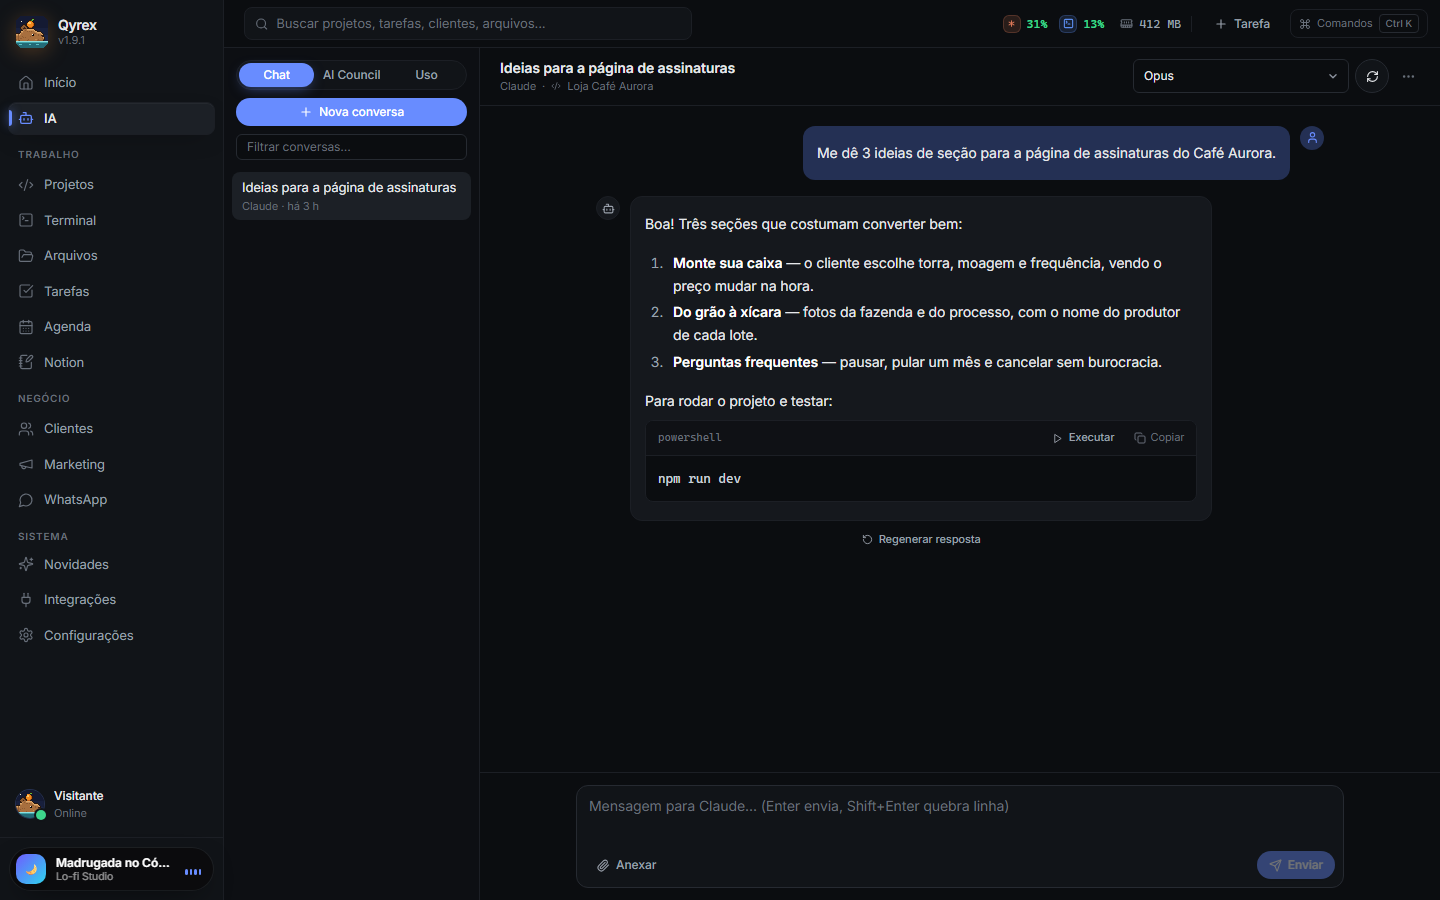
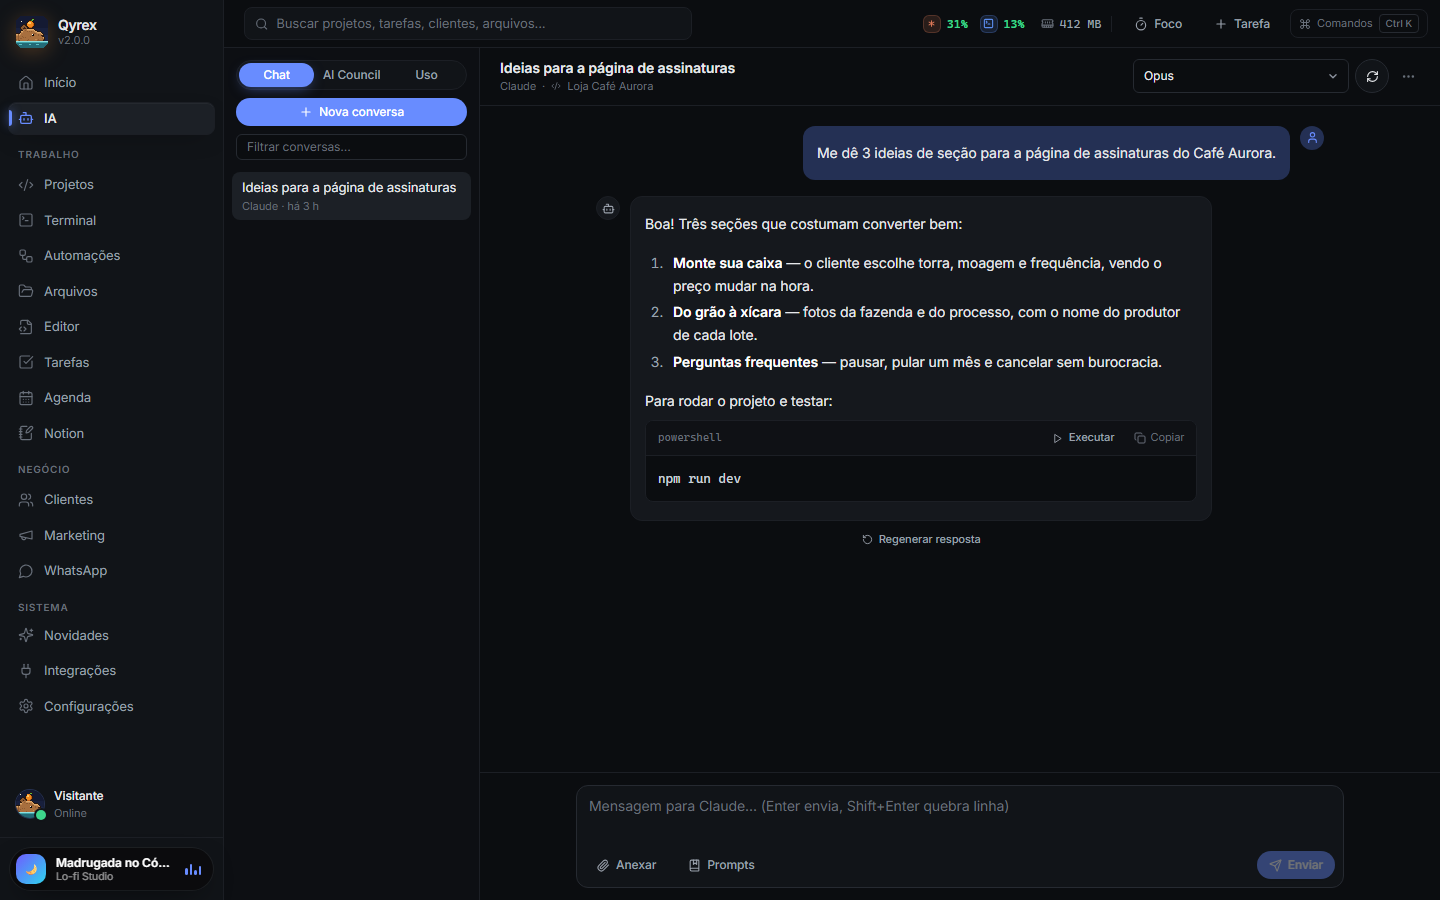
telas do README e do site atualizadas para a 2.0
npm run build:demo && npm run screenshots com as telas novas (Automações e Git visual); a demo ganhou automações de exemplo com execução simulada. README com as funções e regras de segurança do 2.0, imagem do site refeita e notas da 2.0.0 completas.

diff --git a/src/demo/workspaceMock.ts b/src/demo/workspaceMock.ts
@@ -15,6 +15,8 @@ import type {
   AIUsageRecord,
   AIUsageSummary,
   AppSettings,
+  Automation,
+  AutomationRun,
   BackupInfo,
   CalendarEvent,
   FocusSession,
@@ -448,6 +450,57 @@ const projectByPath = (path: string) => db.projects.find((p) => path.toLowerCase
 const risk = (cmd: string): CommandRisk => (/\b(rm|del|remove-item|format|rd|rmdir)\b|--force|reset --hard/i.test(cmd) ? "dangerous" : /^(git status|dir|ls|echo|npm run dev|node -v|npm -v)\b/i.test(cmd.trim()) ? "safe" : "normal");
 const DEMO_ONLY = "Na demo web isso não abre nada no seu computador — no app desktop abre de verdade.";
 
+// Automações da demo: exemplos fictícios; "executar" só simula o resultado.
+const safe = { risk: "safe" as const, reasons: [] };
+const demoAutomations: Omit<Automation, "lastRun">[] = [
+  {
+    id: "au1", name: "Verificar o projeto", description: "Lint, tipos e build, parando no primeiro erro.", projectId: "p1", enabled: true, createdAt: ago(60 * 24 * 3), updatedAt: ago(60 * 24 * 3),
+    steps: [
+      { kind: "command", command: "npm run lint", assessment: safe },
+      { kind: "command", command: "npm run typecheck", assessment: { risk: "normal", reasons: [] } },
+      { kind: "command", command: "npm run build", assessment: safe },
+    ],
+  },
+  {
+    id: "au2", name: "Abrir ambiente de trabalho", description: "Abre o projeto no VS Code e um terminal na pasta.", projectId: "p2", enabled: true, createdAt: ago(60 * 24 * 5), updatedAt: ago(60 * 24 * 5),
+    steps: [
+      { kind: "open", target: "vscode", assessment: safe },
+      { kind: "open", target: "terminal", assessment: safe },
+    ],
+  },
+  {
+    id: "au3", name: "Checagem do Git", description: null, projectId: "p3", enabled: false, createdAt: ago(60 * 24 * 9), updatedAt: ago(60 * 24 * 9),
+    steps: [
+      { kind: "command", command: "git fetch --prune", assessment: safe },
+      { kind: "command", command: "git status -sb", assessment: safe },
+    ],
+  },
+];
+const DEMO_OUTPUT: Record<string, string> = {
+  "npm run lint": "> eslint . --max-warnings 0\n",
+  "npm run typecheck": "> tsc --noEmit\n",
+  "npm run build": "> next build\n✓ Compiled successfully\n✓ Generating static pages (12/12)\n",
+};
+const demoRun = (a: Omit<Automation, "lastRun">, minutesAgo: number): AutomationRun => ({
+  id: uid(),
+  automationId: a.id,
+  startedAt: ago(minutesAgo),
+  finishedAt: ago(minutesAgo),
+  status: "success",
+  error: null,
+  steps: a.steps.map((st) => ({
+    step: st.kind === "command" ? { kind: "command", command: st.command } : { kind: "open", target: st.target },
+    status: "success",
+    exitCode: st.kind === "command" ? 0 : null,
+    stdout: st.kind === "command" ? DEMO_OUTPUT[st.command] ?? "" : "",
+    stderr: "",
+    durationMs: st.kind === "command" ? 1800 + Math.round(Math.random() * 2400) : 300,
+    risk: st.assessment.risk,
+  })),
+});
+const demoRuns: AutomationRun[] = [demoRun(demoAutomations[0], 50), demoRun(demoAutomations[1], 60 * 20)];
+const withLastRun = (a: Omit<Automation, "lastRun">): Automation => ({ ...a, lastRun: demoRuns.find((r) => r.automationId === a.id) ?? null });
+
 // Prompts salvos da demo: só na memória da aba.
 const demoPrompts: SavedPrompt[] = [];
 
@@ -565,14 +618,34 @@ export const workspaceMock: WorkspaceApi = {
     used: () => ok(undefined),
   },
   automations: {
-    list: () => ok([], 20),
+    list: () => ok(demoAutomations.map(withLastRun), 20),
     create: () => fail(DEMO_ONLY),
-    update: () => fail(DEMO_ONLY),
-    delete: () => ok(undefined),
-    run: () => fail(DEMO_ONLY),
+    update: async (id, patch) => {
+      const a = demoAutomations.find((x) => x.id === id);
+      if (!a) return fail("Automação não encontrada.");
+      if (patch.enabled !== undefined) a.enabled = patch.enabled;
+      return ok(withLastRun(a));
+    },
+    delete: async (id) => {
+      const i = demoAutomations.findIndex((x) => x.id === id);
+      if (i >= 0) demoAutomations.splice(i, 1);
+      return ok(undefined);
+    },
+    run: async (id) => {
+      const a = demoAutomations.find((x) => x.id === id);
+      if (!a) return fail("Automação não encontrada.");
+      // Simulação: nada roda de verdade na demo web.
+      const run = demoRun(a, 0);
+      demoRuns.unshift(run);
+      return ok(run, 900);
+    },
     cancel: () => ok(false),
-    runs: () => ok([]),
-    recentRuns: () => ok([]),
+    runs: (id) => ok(demoRuns.filter((r) => r.automationId === id)),
+    recentRuns: () =>
+      ok(demoRuns.slice(0, 6).map((r) => {
+        const a = demoAutomations.find((x) => x.id === r.automationId)!;
+        return { ...r, automationName: a.name, projectId: a.projectId };
+      })),
     suggest: () => ok([{ name: "Rodar testes", description: null, steps: [{ kind: "command", command: "npm test" }] }]),
     onProgress: () => () => undefined,
   },

diff --git a/src/shared/changelog.ts b/src/shared/changelog.ts
@@ -34,6 +34,10 @@ export const CHANGELOG: ChangelogEntry[] = [
             en: "Local backup in Settings → Backup: a verified copy (integrity and hash) of the database, profile photo and icons, automatic every day and before any update changes the database. Restoring first saves a copy of the current state.",
           },
           {
+            pt: "Sincronização entre PCs por uma pasta do OneDrive, Google Drive ou Dropbox: cada cópia vai cifrada com a sua senha, nada sincroniza sozinho e, se os dois PCs mudarem, você escolhe qual manter.",
+            en: "Sync between PCs through a OneDrive, Google Drive or Dropbox folder: each copy is encrypted with your password, nothing syncs on its own and, if both PCs change, you choose which to keep.",
+          },
+          {
             pt: "Exportar e importar configurações (sem pastas autorizadas e sem chaves).",
             en: "Export and import settings (without authorized folders and without keys).",
           },
@@ -67,8 +71,16 @@ export const CHANGELOG: ChangelogEntry[] = [
             en: "Customizable Home: choose which cards appear and in what order, with the new Focus and Automations cards.",
           },
           {
-            pt: "Nova animação de abertura: a capivara pousa num cartão que se abre até virar o app.",
-            en: "New opening animation: the capybara lands on a card that opens up into the app.",
+            pt: "Nova animação de abertura: só a capivara no centro, e o app se abre a partir dela.",
+            en: "New opening animation: just the capybara in the center, and the app opens up from it.",
+          },
+          {
+            pt: "Modo só terminais: esconde a barra lateral e deixa os terminais na janela inteira.",
+            en: "Terminals-only mode: hides the sidebar and gives the terminals the whole window.",
+          },
+          {
+            pt: "Instalador menor: saíram cópias do editor de código que nunca eram usadas.",
+            en: "Smaller installer: unused copies of the code editor's files were removed.",
           },
         ],
       },
@@ -78,6 +90,10 @@ export const CHANGELOG: ChangelogEntry[] = [
           {
             pt: "Arquivos com espaço ou acento no nome aparecem certos na lista de alterações do Git.",
             en: "Files with spaces or accents in their names now show correctly in the Git changes list.",
+          },
+          {
+            pt: "O equalizador do mini player não aparece mais \"cortado\" quando o Windows está com reduzir movimento.",
+            en: "The mini player's equalizer no longer looks \"cut off\" when Windows has reduced motion on.",
           },
         ],
       },

diff --git a/site/index.html b/site/index.html
@@ -120,7 +120,7 @@
         </div>
         <figure class="app-shot">
           <div class="win-bar"><span class="lights"><i></i><i></i><i></i></span><span class="win-title">Qyrex · Início</span><span class="win-meta">dados de exemplo</span></div>
-          <img src="assets/app-inicio.webp" width="1440" height="804" loading="lazy" alt="Tela Início do Qyrex: saudação, cartões de tarefas em foco, compromissos, projetos e manutenção mensal, agenda do dia, tarefas, atividade recente, projetos recentes e cobranças da semana." />
+          <img src="assets/app-inicio.webp" width="1440" height="804" loading="lazy" alt="Tela Início do Qyrex: saudação, cartões de tarefas em foco, compromissos, projetos e manutenção mensal, agenda do dia, tarefas, atividade recente, foco do dia e projetos recentes." />
         </figure>
       </section>
 
@@ -293,8 +293,8 @@
 
           <article class="cell">
             <p class="ck"><span class="i">⛁</span> backup</p>
-            <h3>Backup verificado</h3>
-            <p class="cp">Cópia local do banco, conferida por integridade e hash, todo dia e antes de cada atualização. Restaurar guarda antes o estado atual.</p>
+            <h3>Backup e sincronização</h3>
+            <p class="cp">Cópia local verificada todo dia e antes de cada atualização. Para usar em outro PC, sincronize por uma pasta da nuvem, cifrada com a sua senha.</p>
             <div class="mock">
               <div class="m-win">
                 <div class="m-body mono">
